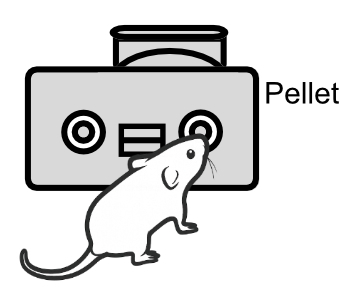
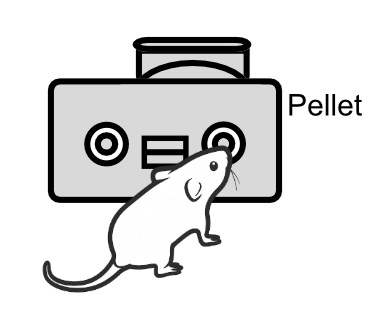
addressing a number of issues with the L4 figures, including: - consistent font family across all text elements (tick labels, axis labels, captions, titles) - consistent panel label placement (dx, dy) across all panels - consistent title placement (y) across all panels - consistent caption placement

Changed region(s): [[0.059, 0.0598, 1.0, 0.9568]]

diff --git a/src/fedlib/fedassays/fedfr.py b/src/fedlib/fedassays/fedfr.py
@@ -672,9 +672,9 @@ def _plot_ipi_density_core(fed_list, ax, mapped_df, palette_map, group_order, *,
     x_div = np.log10(meal_threshold_min)
     ax.axvline(x_div, color="0.5", linestyle="--", linewidth=1.25)
     ymax = ax.get_ylim()[1]
-    ax.text(x_div - 0.15, ymax * 0.98, "Pellets within a meal",
+    ax.text(x_div - 0.15, ymax * 1.05, "Pellets within a meal",
             color="0.5", ha="right", va="top", fontsize=11)
-    ax.text(x_div + 0.15, ymax * 0.98, "Grazing pellets",
+    ax.text(x_div + 0.15, ymax * 1.05, "Grazing pellets",
             color="0.5", ha="left", va="top", fontsize=11)
 
     ax.set_xlabel("Interpellet Interval (min)", fontsize=13)
@@ -807,11 +807,13 @@ def assemble_fr_l4(long_df, x_colors, bm_md, root_path,
     # ---------------- Figure + grid layout ----------------
     # Row 0: A (schematic) + B, C, D, E bars.
     # Row 1: F (IPI density, wide) + G, H bars.
-    fig = plt.figure(figsize=(16, 9))
-    gs = fig.add_gridspec(nrows=2, ncols=1, height_ratios=[1.0, 1.0], hspace=0.5)
+    core.set_plot_style()   # one shared font family across every L4 figure
+    fig = plt.figure(figsize=(16, 8))
+    #gs = fig.add_gridspec(nrows=2, ncols=1, height_ratios=[1.0, 1.0], hspace=0.5)
+    gs = fig.add_gridspec(nrows=2, ncols=1, height_ratios=[1.0, 1.0], hspace=0.45)
 
-    gs_top = gs[0].subgridspec(1, 5, width_ratios=[0.9, 1, 1, 1, 1], wspace=0.5)
-    gs_bot = gs[1].subgridspec(1, 4, width_ratios=[2.4, 0.15, 1, 1], wspace=0.5)
+    gs_top = gs[0, :].subgridspec(1, 5, width_ratios=[1.71, 1, 1, 1, 1], wspace=0.5)
+    gs_bot = gs[1, :].subgridspec(1, 3, width_ratios=[4.15, 1, 1], wspace=0.45)
 
     ##### Panel A: schematic #####
     if schematic_path is None:
@@ -833,7 +835,7 @@ def assemble_fr_l4(long_df, x_colors, bm_md, root_path,
         status.warn(f"L4: schematic image not found ({schematic_path}); panel A blank.")
     # y=1.08 matches _panel_label's default dy, so the gene title sits at the same
     # height as the B)/C)/... panel letters.
-    ax_schem.set_title(genename, loc="left", fontsize=30, fontweight="bold", y=1.4)
+    ax_schem.set_title(genename, loc="left", fontsize=30, fontweight="bold", y=1.0)
 
     ##### Panels B-E: top-row metric bars #####
     top_specs = [
@@ -868,7 +870,7 @@ def assemble_fr_l4(long_df, x_colors, bm_md, root_path,
 
     ##### Panel F: inter-pellet-interval density #####
     ax_ipi = fig.add_subplot(gs_bot[0, 0])
-    core._panel_label(ax_ipi, "F)")
+    core._panel_label(ax_ipi, "F)", dx=-0.05, dy=1.05)
     _plot_ipi_density_core(fed_list, ax_ipi, mapped_relabeled, color_map, group_order)
     # In the multi-mutant case, prefix the gene name onto non-WT legend entries.
     if multi:
@@ -884,8 +886,9 @@ def assemble_fr_l4(long_df, x_colors, bm_md, root_path,
         ("%MealPellets",        "%Pellets Within a Meal"),
     ]
     bot_letters = ["G)", "H)"]
+    
     for i, (metric, ylabel) in enumerate(bot_specs):
-        ax_bar = fig.add_subplot(gs_bot[0, i + 2])          # cols 2,3 (col 1 is a spacer)
+        ax_bar = fig.add_subplot(gs_bot[0, i + 1])          # cols 2,3 (col 1 is a spacer)
         handles = _draw_bar(ax_bar, metric, ylabel, bot_letters[i])
         if handles and not shared_handles:
             shared_handles = handles
@@ -895,25 +898,21 @@ def assemble_fr_l4(long_df, x_colors, bm_md, root_path,
         fig.legend(
             handles=shared_handles, title="Sex",
             loc="upper right", frameon=False,
-            bbox_to_anchor=(0.55, 0.5),
+            bbox_to_anchor=(0.125, 0.66),
         )
 
     # --- Caption block beneath the panels ---
     caption = (
-        "A) Schematic of the FED3 device and FR1 task. "
-        "B, C, D, E) Bar graphs of the mean daily pellets, accuracy, poke time and "
-        "retrieval time respectively.\n"
-        "F) Histogram of the distribution of inter-pellet intervals: pellets eaten "
-        "less than 60 s apart (within a meal) vs. more than 60 s apart (grazing).\n"
-        "G, H) Bar graphs of the mean inter-pellet interval (IPI) within a meal and "
-        "the percentage of pellets within a meal.\n"
-        "Statistics: two-way ANOVA; the reported p-value is the genotype effect "
-        "(genotype x sex and sex effects are in the stats table)."
+        "A) Schematic of the FED3 device and FR1 task. B, C, D, E) Bar graphs of the mean daily pellets, accuracy, poke time and retrieval\n" 
+        "time respectively. F) Histogram of the distribution of inter-pellet intervals: pellets eaten less than 60 s apart (within a meal)\n"
+        "vs. more than 60 s apart (grazing). G, H) Bar graphs of the mean inter-pellet interval (IPI) within a meal and the percentage of\n"
+        "pellets within a meal.\n"
+        "Statistics: two-way ANOVA; the reported p-value is the genotype effect (genotype x sex and sex effects are in the stats table)."
     )
-    fig.text(0.1, 0.02, caption, ha="left", va="bottom", fontsize=13)
+    fig.text(0.1, 0.02, caption, ha="left", va="bottom", fontsize=14)
 
     # Reserve room at the bottom for the caption (tight_layout can't see fig.text).
-    fig.subplots_adjust(bottom=0.20)
+    fig.subplots_adjust(bottom=0.24)
 
     out_path = out_dir / f"{genename}_FR_L4.svg"
     # bbox_inches="tight" keeps the caption and shared legend from being clipped.

diff --git a/src/fedlib/fedassays/fedbandit.py b/src/fedlib/fedassays/fedbandit.py
@@ -1164,24 +1164,23 @@ def assemble_bandit_l4(long_df, rev_df, x_colors, ordered_x, bm_md, root_path,
 
 
     # ---------------- Figure + grid layout ----------------
-    # Row 0: panel A. 
+    # Row 0: panel A.
     # Row 1: line plot (wide) + four equal-width bar plots.
+    core.set_plot_style()   # one shared font family across every L4 figure
     fig = plt.figure(figsize=(16, 8))
-    gs = fig.add_gridspec(
-        nrows=2, ncols=5,
-        height_ratios=[1.0, 1.4],
-        width_ratios=[3, 1, 1, 1, 1],
-        hspace=0.35, wspace=0.45,
-    )
+    #create a grid space
+    gs = fig.add_gridspec(nrows=2, ncols=1, height_ratios=[1.0, 1.0], hspace=0.45)
 
+    # define the subgridspecs for the top and bottom rows
+    gs_top = gs[0, :].subgridspec(2, 3, width_ratios=[1, 2, 0.3], hspace=0.25, wspace=0.08)
+    gs_bot = gs[1, :].subgridspec(1, 5, width_ratios=[1.88, 1, 1, 1, 1], wspace=0.45)
+    # bar column ratio should be
+    # a total of 1/7 (0.14) + 0.45 wspace
 
     ##### Panel A  #####
     # schematic (left) + two stacked example traces (right)
     # Nested grid so the top row can hold both the image and the two traces.
-    gs_a = gs[0, :].subgridspec(
-        2, 3, 
-        width_ratios=[1, 2, 0.3], 
-        hspace=0.25, wspace=0.08)
+
 
     # Schematic spans both sub-rows on the left; blank if no image supplied.
     # find what bandit version
@@ -1201,15 +1200,14 @@ def assemble_bandit_l4(long_df, rev_df, x_colors, ordered_x, bm_md, root_path,
         )
 
     # add the bandit schematic
-    ax_schem = fig.add_subplot(gs_a[:, 0])
+    ax_schem = fig.add_subplot(gs_top[:, 0])
     ax_schem.axis("off")
-    core._panel_label(ax_schem, "A)", dx=1.2, dy=1.0)
-    core._panel_label(ax_schem, "A)", dx=1.2, dy=1.0)
+    core._panel_label(ax_schem, "A)", dx=0.05, dy=0.75)
 
     if schematic_path is not None and Path(schematic_path).exists():
         ax_schem.imshow(mpimg.imread(str(schematic_path)))
     # add genename label at title
-    ax_schem.set_title(genename, loc="left", fontsize=20, fontweight="bold")
+    ax_schem.set_title(genename, loc="left", fontsize=30, fontweight="bold")
 
 
     ### Switching plots ###
@@ -1229,7 +1227,7 @@ def assemble_bandit_l4(long_df, rev_df, x_colors, ordered_x, bm_md, root_path,
 
 
     for row, (mid, label, col, show_x) in enumerate(trace_specs):
-        ax_tr = fig.add_subplot(gs_a[row, 1])
+        ax_tr = fig.add_subplot(gs_top[row, 1])
         fed = core._fed_for_mouse(fed_list, metadata_df, mid)
         
         if fed is None:
@@ -1262,7 +1260,7 @@ def assemble_bandit_l4(long_df, rev_df, x_colors, ordered_x, bm_md, root_path,
 
 
     ##### Panel B-left: reverse-learning line plot #####
-    ax_line = fig.add_subplot(gs[1, 0])
+    ax_line = fig.add_subplot(gs_bot[0, 0])
     core._panel_label(ax_line, "B)")          
     _rev_learning_core(rev_df, ax_line, 
                        palette_map = color_map, 
@@ -1290,7 +1288,7 @@ def assemble_bandit_l4(long_df, rev_df, x_colors, ordered_x, bm_md, root_path,
 
     shared_handles = []
     for col, (metric, ylabel) in enumerate(metric_specs, start=1):
-        ax_bar = fig.add_subplot(gs[1, col])
+        ax_bar = fig.add_subplot(gs_bot[0, col])
         # assign bar plot panels
         if col in bar_panel_letters:
             core._panel_label(ax_bar, bar_panel_letters[col])
@@ -1314,7 +1312,7 @@ def assemble_bandit_l4(long_df, rev_df, x_colors, ordered_x, bm_md, root_path,
         fig.legend(
             handles=shared_handles, title="Sex",
             loc="lower right", frameon=False,
-            bbox_to_anchor=(0.4, 0.5),
+            bbox_to_anchor=(0.125, 0.62),
         )
 
     

diff --git a/src/fedlib/fedassays/fedpr1.py b/src/fedlib/fedassays/fedpr1.py
@@ -1028,11 +1028,12 @@ def assemble_pr_l4(long_df, x_colors, ordered_x, bm_md, root_path,
     # ---------------- Figure + grid layout ----------------
     # Row 0: A (schematic) | B (example histogram) | C (demand curve, widest).
     # Row 1: five equal-width bar panels D-H.
-    fig = plt.figure(figsize=(16, 9))
+    core.set_plot_style()   # one shared font family across every L4 figure
+    fig = plt.figure(figsize=(16, 8))
     gs = fig.add_gridspec(nrows=2, ncols=1, height_ratios=[1.0, 1.0], hspace=0.45)
 
-    gs_top = gs[0].subgridspec(1, 3, width_ratios=[0.9, 1.3, 1.8], wspace=0.35)
-    gs_bot = gs[1].subgridspec(1, 5, wspace=0.55)
+    gs_top = gs[0].subgridspec(1, 3, width_ratios=[1.2, 1.3, 1.8], wspace=0.25)
+    gs_bot = gs[1].subgridspec(1, 5, wspace=0.75)
 
     ##### Panel A: schematic #####
     if schematic_path is None:
@@ -1040,12 +1041,14 @@ def assemble_pr_l4(long_df, x_colors, ordered_x, bm_md, root_path,
 
     ax_schem = fig.add_subplot(gs_top[0, 0])
     ax_schem.axis("off")
-    core._panel_label(ax_schem, "A)", dx=0.05, dy=0.75)
+    core._panel_label(ax_schem, "A)", dx=0.00, dy=0.75)
     if schematic_path is not None and Path(schematic_path).exists():
         ax_schem.imshow(mpimg.imread(str(schematic_path)))
     else:
         status.warn(f"L4: schematic image not found ({schematic_path}); panel A blank.")
     ax_schem.set_title(genename, loc="left", fontsize=30, fontweight="bold", y=1.2)
+    
+    
 
     ##### Panel B: example mouse pellet histogram #####
     # Force the example to be a het mouse: recover HET's final display label (the
@@ -1113,25 +1116,20 @@ def assemble_pr_l4(long_df, x_colors, ordered_x, bm_md, root_path,
         fig.legend(
             handles=shared_handles, title="Sex",
             loc="lower right", frameon=False,
-            bbox_to_anchor=(0.25, 0.50),
+            bbox_to_anchor=(0.125, 0.55),
         )
 
     # --- Caption block beneath the panels ---
     caption = (
-        "A) FED3 device and PR task schematic. "
-        "B) Individual mouse histogram: each earned pellet plotted at how many pokes "
-        "(block depth) it took to earn it.\n"
-        "C) Grouped demand curve showing mean alpha (the price at which consumption "
-        "halves) and slope of the curve.\n"
-        "D, E, F, G, H) Bar graphs of mean daily pellets, total pokes, median break "
-        "point, alpha and slope respectively.\n"
-        "Statistics: two-way ANOVA; the reported p-value is the genotype effect "
-        "(genotype x sex and sex effects are in the stats table)."
+        "A) FED3 device and PR task schematic. B) Individual mouse histogram: each earned pellet plotted at how many pokes (block depth)\n"
+        "it took to earn it. C) Grouped demand curve showing mean alpha (the price at which consumption halves) and slope of the curve. \n"
+        "D, E, F, G, H) Bar graphs of mean daily pellets, total pokes, median break point, alpha and slope respectively. \n"
+        "Statistics: two-way ANOVA; the reported p-value is the genotype effect (genotype x sex and sex effects are in the stats table)."
     )
-    fig.text(0.1, 0.02, caption, ha="left", va="bottom", fontsize=13)
+    fig.text(0.1, 0.02, caption, ha="left", va="bottom", fontsize=14)
 
     # Reserve room at the bottom for the caption (tight_layout can't see fig.text).
-    fig.subplots_adjust(bottom=0.20)
+    fig.subplots_adjust(bottom=0.22)
 
     out_path = out_dir / f"{genename}_PR_L4.svg"
     # bbox_inches="tight" keeps the caption and shared legend from being clipped.

diff --git a/src/fedlib/fedcore/core.py b/src/fedlib/fedcore/core.py
@@ -36,6 +36,20 @@ from fedlib.fedutils.fedlog import status
 # Set the alpha for plots
 ALPHA = 0.6  # apply to both bars and dots
 
+
+def set_plot_style(font_family="DejaVu Sans"):
+    """
+    Force one consistent font family across every text element (tick labels,
+    axis labels, captions, titles) so the L4 composites all render in the same
+    typeface.
+    """
+    plt.rcParams["font.family"] = "sans-serif"
+    plt.rcParams["font.sans-serif"] = [
+        font_family, "DejaVu Sans", "Liberation Sans", "sans-serif",
+    ]
+    plt.rcParams["pdf.fonttype"] = 42
+    plt.rcParams["ps.fonttype"] = 42
+
 ### ---- create a set of cuntions to validate the assay argument within core calls --- ###
 
 # Single source of truth for every per-assay column set.
@@ -2063,6 +2077,3 @@ def _panel_label(ax, letter, *, dx=-0.08, dy=1.08, fontsize=18):
     """
     ax.text(dx, dy, letter, transform=ax.transAxes,
             ha="right", va="bottom", fontsize=fontsize, fontweight="bold")
-
-def _test_function(args):
-    print(f"This is a test function to verify that the code is running correctly.{args}")
